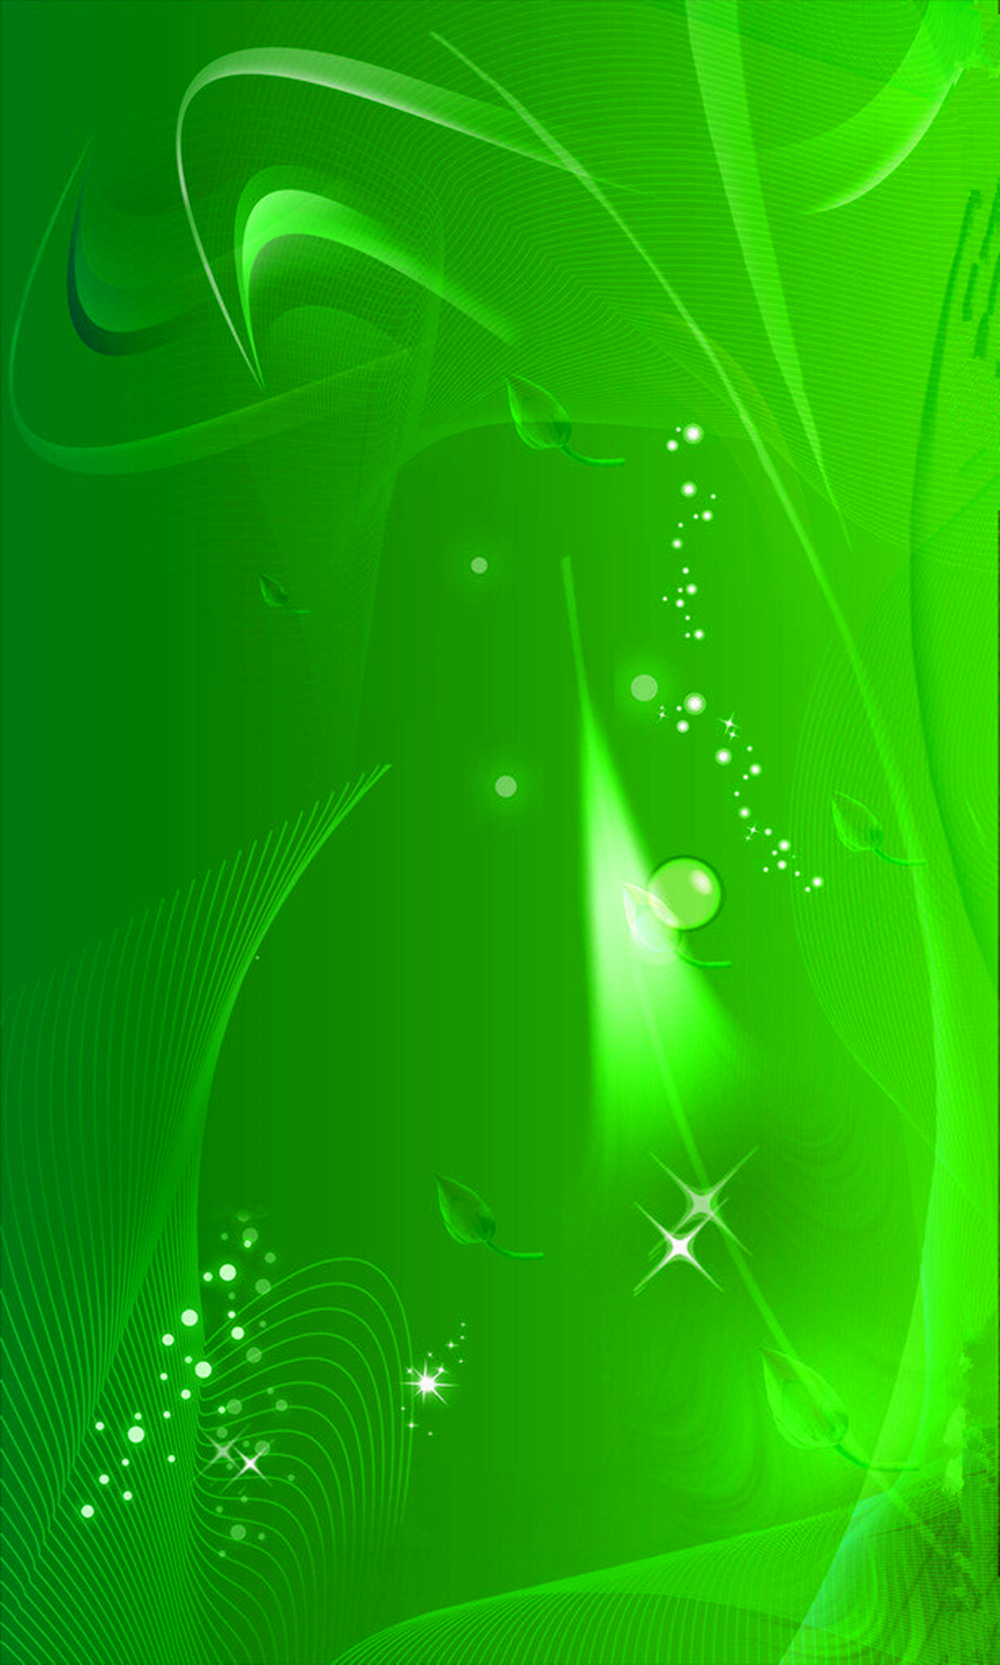
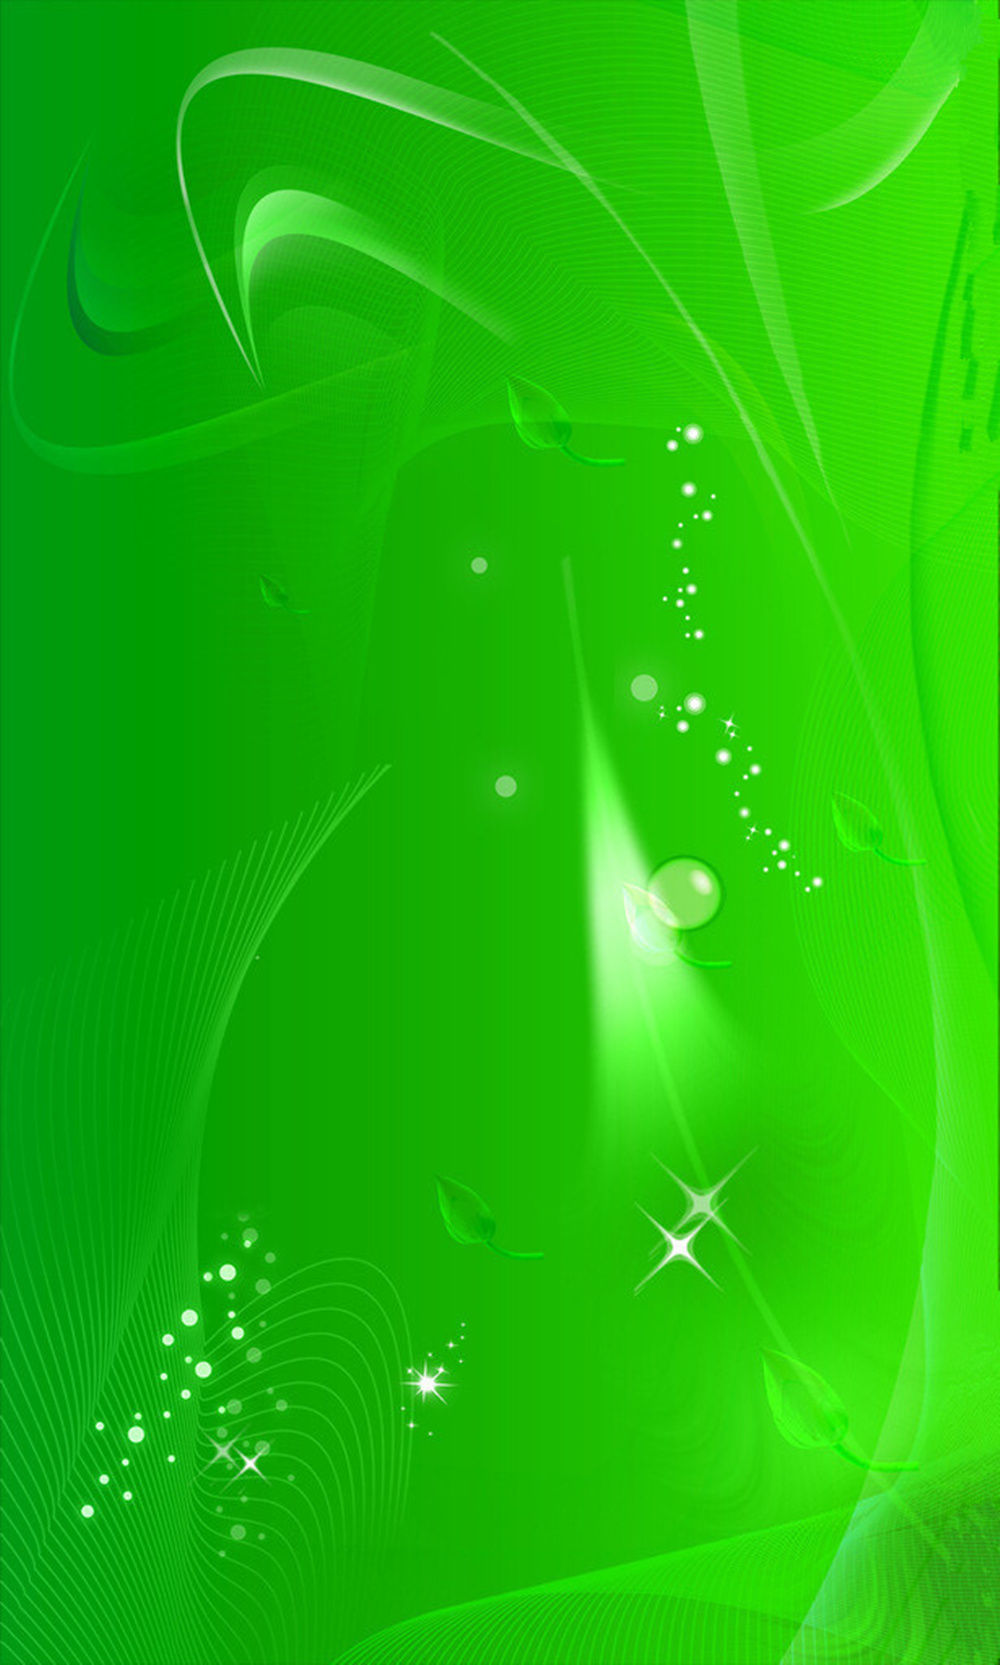
1. Modify picture show with two parts; 2. Modify circle background color; 3. Modify background image;

diff --git a/frontpage/home/files/home-62.css b/frontpage/home/files/home-62.css
@@ -10,7 +10,8 @@
 	height:20%;
 	/*background:url(../../img/template/lib/v71_2.jpg) no-repeat 0 0;
 	background:url(v71_2.jpg) no-repeat 0 0; */
-	background:url(v71_2.jpg) no-repeat 0 222px;
+	/*background:url(v71_2.jpg) no-repeat 0 222px;*/
+	background:url(v71_2.jpg) no-repeat 0 1000px;
 	-webkit-background-size:100% 100%;
 }
 
@@ -32,7 +33,8 @@
 	display:block;
 	height:100%;
 	color:#ffffff;
-	background:#e77e8d;
+	/*background:#e77e8d;*/
+	background:#ffa300;
 	height:80px;
 	-webkit-tap-highlight-color: rgba(0, 0, 0, 0);
 	border-radius: 100px;
